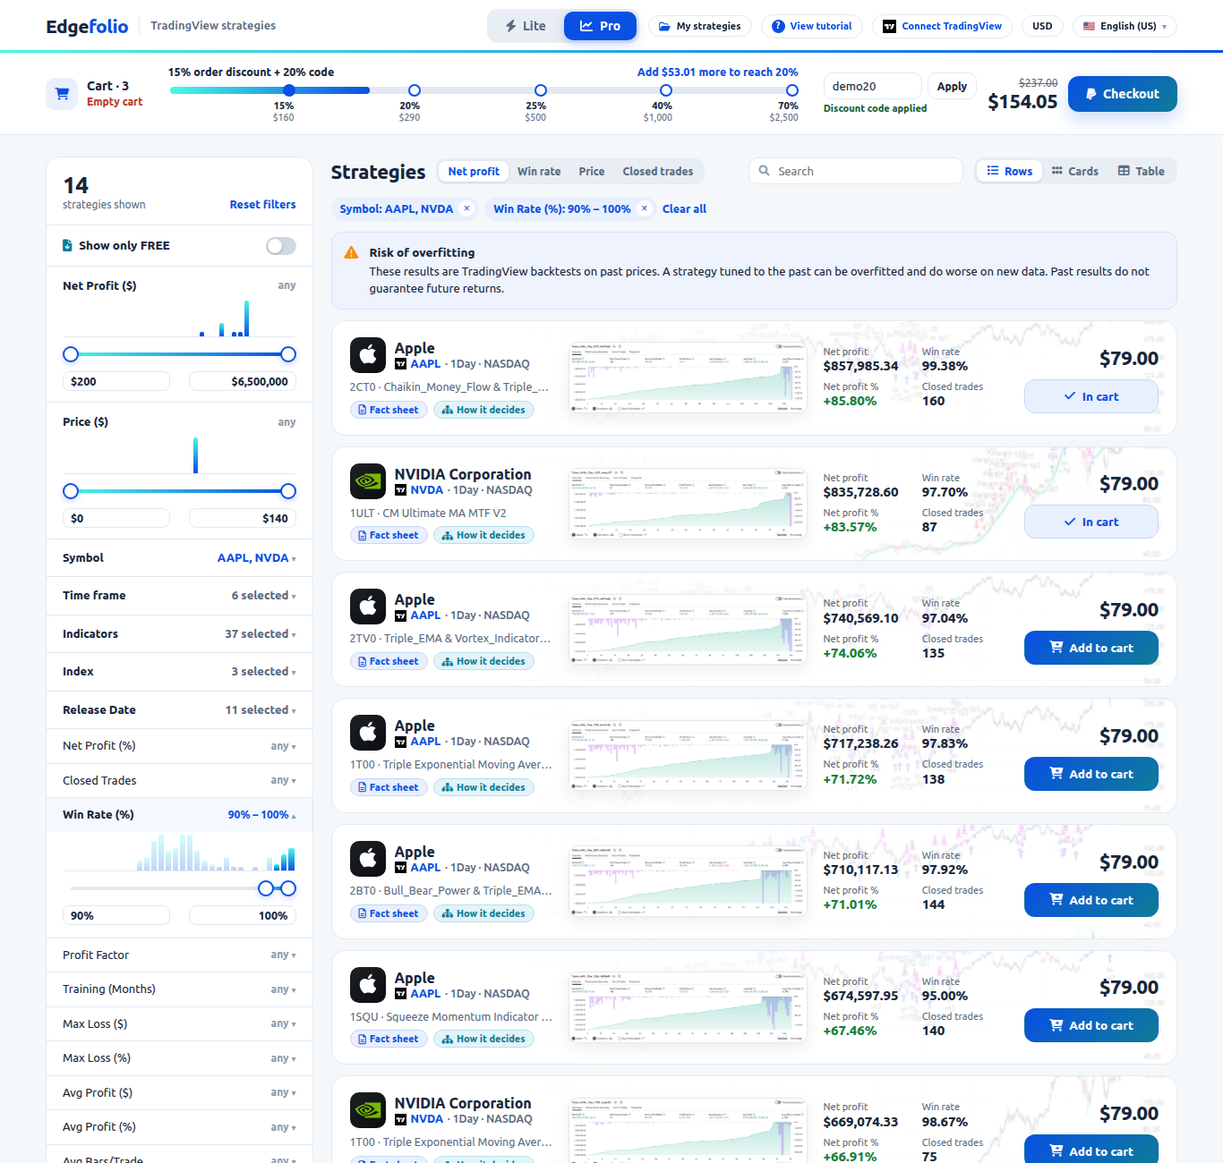
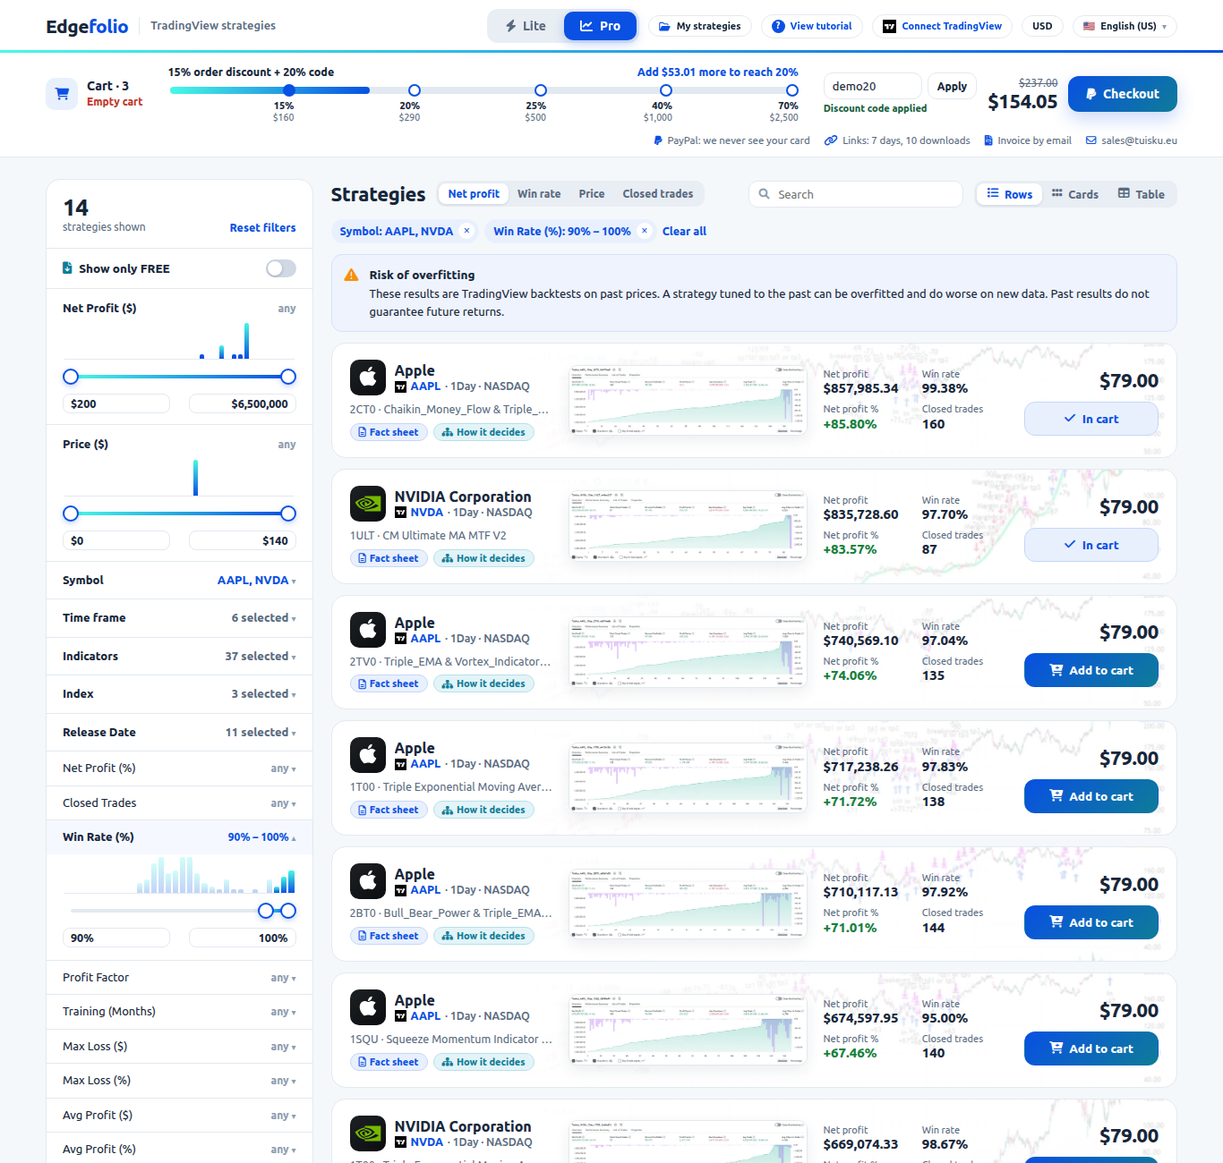
Trust row under Checkout (design export of 6 Oct) and the receipt email
- Lite floating cart and Pro cart strip show the design's trust row: PayPal,
  link lifetime and downloads (from DOWNLOAD_DAYS / MAX_DOWNLOADS), invoice
  by email and CONTACT_EMAIL (LTR in Arabic).
- "Invoice by email" is now true: the first capture of an order emails its
  receipt, line by line, in the page's language (orders.lang, migrated).
- docs/design and IMPLEMENTATION-v7.md updated to the new handoff; README
  and its Lite/Pro screenshots refreshed.

Claude-Session: https://claude.ai/code/session_012EAXLkwBLpxS2P3pKzZpSr

diff --git a/docs/design/Storefront v7.dc.html b/docs/design/Storefront v7.dc.html
@@ -142,6 +142,12 @@ a:hover{text-decoration:underline}
           <sc-if value="{{ codeOpen }}" hint-placeholder-val="{{ false }}"><span style="display:flex;gap:6px;align-items:center"><input value="{{ code }}" onChange="{{ onCode }}" placeholder="{{ tx.codePh }}" style="width:100px;font-family:inherit;font-size:13px;color:#16263a;border:1px solid #e2e9f0;border-radius:10px;padding:6px 9px"><button onClick="{{ applyCode }}" style="font-family:inherit;background:#fff;border:1px solid #e2e9f0;color:#16263a;font-weight:600;border-radius:10px;padding:6px 10px;font-size:12px;cursor:pointer">{{ tx.apply }}</button></span></sc-if>
           <span style="margin-inline-start:auto;text-align:end;line-height:1.15"><span style="display:block;font-size:11.5px;color:#5a6b80;text-decoration:line-through">{{ subtotal }}</span><span style="font-size:20px;font-weight:700;letter-spacing:-.3px">{{ total }}</span><sc-if value="{{ isLocal }}" hint-placeholder-val="{{ false }}"><span style="display:block;font-size:10.5px;color:#5a6b80">{{ payNote }}</span></sc-if></span>
           <button onClick="{{ checkout }}" style="font-family:inherit;background:#0950e3;border:none;color:#fff;font-weight:700;border-radius:12px;padding:12px 20px;font-size:14px;cursor:pointer;box-shadow:0 8px 20px rgba(9,80,227,.22);display:inline-flex;gap:8px;align-items:center"><i class="fa-brands fa-paypal"></i>{{ tx.checkout }}</button>
+          <div style="flex:1 1 100%;display:flex;flex-wrap:wrap;gap:6px 16px;padding-top:8px;border-top:1px solid #eef2f6;font-size:11.5px;color:#5a6b80">
+            <span style="display:inline-flex;gap:6px;align-items:center"><i class="fa-brands fa-paypal" style="color:#0950e3"></i>{{ tx.trustPaypal }}</span>
+            <span style="display:inline-flex;gap:6px;align-items:center"><i class="fa-solid fa-link" style="color:#0950e3"></i>{{ tx.trustLinks }}</span>
+            <span style="display:inline-flex;gap:6px;align-items:center"><i class="fa-solid fa-file-invoice" style="color:#0950e3"></i>{{ tx.trustInvoice }}</span>
+            <a href="mailto:sales@tuisku.eu" dir="ltr" style="display:inline-flex;gap:6px;align-items:center;color:#5a6b80;text-decoration:none"><i class="fa-regular fa-envelope" style="color:#0950e3"></i>sales@tuisku.eu</a>
+          </div>
         </div>
       </div>
     </sc-if>
@@ -164,6 +170,12 @@ a:hover{text-decoration:underline}
           <div style="display:flex;flex-direction:column;gap:2px"><div style="display:flex;gap:6px"><input value="{{ code }}" onChange="{{ onCode }}" placeholder="{{ tx.codePh }}" style="width:110px;font-family:inherit;font-size:13px;color:#16263a;border:1px solid #e2e9f0;border-radius:10px;padding:7px 9px"><button onClick="{{ applyCode }}" style="font-family:inherit;background:#fff;border:1px solid #e2e9f0;color:#16263a;font-weight:600;border-radius:10px;padding:7px 10px;font-size:12px;cursor:pointer">{{ tx.apply }}</button></div><span style="font-size:11px;font-weight:600;color:{{ codeMsgColor }}">{{ codeMsg }}</span></div>
           <div style="text-align:end;line-height:1.15"><div style="font-size:12px;color:#5a6b80;text-decoration:line-through">{{ subtotal }}</div><div style="font-size:22px;font-weight:700;letter-spacing:-.3px">{{ total }}</div></div>
           <button onClick="{{ checkout }}" style="font-family:inherit;background:linear-gradient(135deg,#0950e3,#0e7c98);border:none;color:#fff;font-weight:700;border-radius:12px;padding:12px 20px;font-size:14px;cursor:pointer;box-shadow:0 8px 20px rgba(9,80,227,.22);display:inline-flex;gap:8px;align-items:center"><i class="fa-brands fa-paypal"></i>{{ tx.checkout }}</button>
+        </div>
+        <div style="flex:1 1 100%;display:flex;flex-wrap:wrap;justify-content:flex-end;gap:6px 16px;font-size:11.5px;color:#5a6b80;margin-top:-4px">
+          <span style="display:inline-flex;gap:6px;align-items:center"><i class="fa-brands fa-paypal" style="color:#0950e3"></i>{{ tx.trustPaypal }}</span>
+          <span style="display:inline-flex;gap:6px;align-items:center"><i class="fa-solid fa-link" style="color:#0950e3"></i>{{ tx.trustLinks }}</span>
+          <span style="display:inline-flex;gap:6px;align-items:center"><i class="fa-solid fa-file-invoice" style="color:#0950e3"></i>{{ tx.trustInvoice }}</span>
+          <a href="mailto:sales@tuisku.eu" dir="ltr" style="display:inline-flex;gap:6px;align-items:center;color:#5a6b80;text-decoration:none"><i class="fa-regular fa-envelope" style="color:#0950e3"></i>sales@tuisku.eu</a>
         </div>
       </div>
     </div>

diff --git a/storefront/js/views/lite.js b/storefront/js/views/lite.js
@@ -83,6 +83,12 @@ export default function Lite(v) {
           ${v.codeOpen ? html`<span style="display:flex;gap:6px;align-items:center"><input value=${v.code ?? ''} onInput=${v.onCode} placeholder=${v.tx?.codePh} style="width:100px;font-family:inherit;font-size:13px;color:#16263a;border:1px solid #e2e9f0;border-radius:10px;padding:6px 9px" /><button onClick=${v.applyCode} style="font-family:inherit;background:#fff;border:1px solid #e2e9f0;color:#16263a;font-weight:600;border-radius:10px;padding:6px 10px;font-size:12px;cursor:pointer">${v.tx?.apply}</button></span>` : null}
           <span style="margin-inline-start:auto;text-align:end;line-height:1.15">${v.hasDiscount ? html`<span style="display:block;font-size:11.5px;color:#5a6b80;text-decoration:line-through">${v.subtotal}</span>` : null}<span style="font-size:20px;font-weight:700;letter-spacing:-.3px">${v.total}</span>${v.isLocal ? html`<span style="display:block;font-size:10.5px;color:#5a6b80">${v.payNote}</span>` : null}</span>
           <button onClick=${v.checkout} disabled=${v.paying} aria-busy=${v.paying} style="font-family:inherit;background:${s(v.payBgLite)};border:none;color:#fff;font-weight:700;border-radius:12px;padding:12px 20px;font-size:14px;cursor:${s(v.payCursor)};box-shadow:${s(v.payShadow)};display:inline-flex;gap:8px;align-items:center"><i class=${v.payIcon}></i>${T(v.tx?.checkout)}</button>
+          <div style="flex:1 1 100%;display:flex;flex-wrap:wrap;gap:6px 16px;padding-top:8px;border-top:1px solid #eef2f6;font-size:11.5px;color:#5a6b80">
+            <span style="display:inline-flex;gap:6px;align-items:center"><i class="fa-brands fa-paypal" style="color:#0950e3"></i>${T(v.tx?.trustPaypal)}</span>
+            <span style="display:inline-flex;gap:6px;align-items:center"><i class="fa-solid fa-link" style="color:#0950e3"></i>${T(v.tx?.trustLinks)}</span>
+            <span style="display:inline-flex;gap:6px;align-items:center"><i class="fa-solid fa-file-invoice" style="color:#0950e3"></i>${T(v.tx?.trustInvoice)}</span>
+            ${v.contactOn ? html`<a href=${v.contactUrl} dir="ltr" style="display:inline-flex;gap:6px;align-items:center;color:#5a6b80;text-decoration:none"><i class="fa-regular fa-envelope" style="color:#0950e3"></i>${v.contactEmail}</a>` : null}
+            </div>
           </div>
         </div>
       ` : null}

diff --git a/storefront/js/views/pro.js b/storefront/js/views/pro.js
@@ -21,6 +21,12 @@ export default function Pro(v) {
           <div style="text-align:end;line-height:1.15">${v.hasDiscount ? html`<div style="font-size:12px;color:#5a6b80;text-decoration:line-through">${v.subtotal}</div>` : null}<div style="font-size:22px;font-weight:700;letter-spacing:-.3px">${v.total}</div></div>
           <button onClick=${v.checkout} disabled=${v.paying} aria-busy=${v.paying} style="font-family:inherit;background:${s(v.payBgPro)};border:none;color:#fff;font-weight:700;border-radius:12px;padding:12px 20px;font-size:14px;cursor:${s(v.payCursor)};box-shadow:${s(v.payShadow)};display:inline-flex;gap:8px;align-items:center"><i class=${v.payIcon}></i>${T(v.tx?.checkout)}</button>
           </div>
+        <div style="flex:1 1 100%;display:flex;flex-wrap:wrap;justify-content:flex-end;gap:6px 16px;font-size:11.5px;color:#5a6b80;margin-top:-4px">
+          <span style="display:inline-flex;gap:6px;align-items:center"><i class="fa-brands fa-paypal" style="color:#0950e3"></i>${T(v.tx?.trustPaypal)}</span>
+          <span style="display:inline-flex;gap:6px;align-items:center"><i class="fa-solid fa-link" style="color:#0950e3"></i>${T(v.tx?.trustLinks)}</span>
+          <span style="display:inline-flex;gap:6px;align-items:center"><i class="fa-solid fa-file-invoice" style="color:#0950e3"></i>${T(v.tx?.trustInvoice)}</span>
+          ${v.contactOn ? html`<a href=${v.contactUrl} dir="ltr" style="display:inline-flex;gap:6px;align-items:center;color:#5a6b80;text-decoration:none"><i class="fa-regular fa-envelope" style="color:#0950e3"></i>${v.contactEmail}</a>` : null}
+          </div>
         </div>
       </div>
     <main style="flex:1 0 auto;width:100%;max-width:1320px;margin:0 auto;padding:24px 28px 0;display:flex;flex-wrap:wrap;gap:20px;align-items:flex-start">

diff --git a/storefront/js/lib/vals_pages.js b/storefront/js/lib/vals_pages.js
@@ -16,7 +16,7 @@ export function pageVals(c) {
   const errBottom = (s.vw < 640 ? 76 : 16) + (s.page === 'shop' && s.mode !== 'pro' && (s.cart.length + s.bundles.length > 0) ? 84 : 0);
   return {
     ...detailVals(c), ...compareVals(c), ...mineVals(c), ...thanksVals(c), ...installVals(c), ...freeVals(c),
-    ...legal, legalOn: !!base, contactOn: !!c.contact, contactUrl: c.contact ? 'mailto:' + c.contact : '',
+    ...legal, legalOn: !!base, contactOn: !!c.contact, contactUrl: c.contact ? 'mailto:' + c.contact : '', contactEmail: c.contact,
     errOpen: !!s.error, errTitle: tx.errServer, closeErr: () => app.setState({ error: '' }),
     errText: t(s.error) + ((s.error === 'errPayment' || s.error === 'errLater') && c.contact ? ' ' + t('contactProblems', { e: c.contact }) : ''),
     errBottom: errBottom + 'px',

diff --git a/storefront/js/lib/vals.js b/storefront/js/lib/vals.js
@@ -25,6 +25,8 @@ export function renderVals(app) {
   TX_KEYS.forEach(k => { tx[k] = t(k); });
   const contact = (s.cfg && s.cfg.contact_email) || '';
   tx.contactProblems = t('contactProblems', { e: contact });
+  // the trust row says what the server's settings say, not the design's example figures
+  tx.trustLinks = t('trustLinks', { n: f.int((s.cfg && s.cfg.download_days) || 7), m: f.int((s.cfg && s.cfg.max_downloads) || 10) });
 
   const c = { app, s, t, tx, f, lang, rtl, contact };
   c.mk = r => rowVals(c, r);

diff --git a/storefront/js/app.js b/storefront/js/app.js
@@ -333,7 +333,7 @@ export class App extends Component {
     if (this.paying || (!body.items.length && !body.bundles.length && !body.pack.length)) return;
     this.paying = true;
     this.setState({ paying: true });
-    post('/api/orders', body).then(o => window.location.assign(o.approve_url))
+    post('/api/orders', { ...body, lang: this.state.lang }).then(o => window.location.assign(o.approve_url))
       .catch(e => { this.paying = false; this.setState({ paying: false }); this.fail(e); });
   }
 

diff --git a/api/capture.py b/api/capture.py
@@ -1,6 +1,8 @@
 """POST /api/orders/{id}/capture: take the money, check it matches the order, issue download links.
 
 Capturing only takes money the buyer approved at PayPal, so anyone holding the order id may trigger it.
+The first capture of an order also emails its receipt (the "Invoice by email" of the checkout's trust row)
+to the order's email: the signed-in buyer's, or the PayPal payer's.
 The links in the receipt, though, go only to the browser that placed the order (its ef_buyer cookie) or
 to a session whose email owns the order; anyone else gets the receipt without them (links_hidden).
 """
@@ -11,6 +13,7 @@ from urllib.parse import urlencode
 from fastapi import APIRouter, HTTPException, Request
 
 from api import auth
+from api.web import base_url
 from api.orders import BUYER
 from api.paypal import PayPalError
 from api.store import digest
@@ -22,6 +25,36 @@ def masked(email: str) -> str:
     """a•••@example.com: enough for the buyer to recognise the address, little for anyone else."""
     local, at, domain = (email or "").strip().partition("@")
     return f"{local[0]}•••@{domain}" if at and local and domain else ""
+
+
+def money(value, currency: str) -> str:
+    return f"{Decimal(value):,.2f} {currency}"
+
+
+def email_receipt(request: Request, order: dict):
+    """The order line by line, the total and where the downloads are. A failed email is in the outbox
+    and does not undo the payment: the thank-you page and My strategies still have everything."""
+    state = request.app.state
+    if not order.get("email"):
+        return
+    texts, lang, cur, catalogue = state.texts, order.get("lang") or "en", order["currency"], state.catalogue
+    lines = order.get("lines") or {}
+    out = []
+    for item in lines.get("items", []):
+        s = catalogue.resolve(item["id"])
+        name = f"{s.row.get('Name', s.ticker)} ({s.ticker} · {s.key_techs} · {s.interval})" if s else item["id"]
+        out.append(f"{name}: {money(item['price'], cur)}")
+    for b in lines.get("bundles", []):
+        bundle = catalogue.bundles.get(b["key"])
+        name = texts.get(bundle.name_key, lang) if bundle else b["key"]
+        out.append(f"{name} ({len(bundle.items) if bundle else '?'}): {money(b['price'], cur)}")
+    if lines.get("pack"):
+        out.append(f"{texts.get('packTitle', lang)} ({len(lines['pack']['ids'])}): {money(lines['pack']['price'], cur)}")
+    settings = state.settings
+    body = texts.get("mailReceiptBody", lang, id=order["paypal_id"], lines="\n".join("- " + line for line in out),
+                     total=money(order["total"], cur), mine=f"{base_url(request)}/mine", n=settings.download_days,
+                     m=settings.max_downloads, contact=settings.contact_email)
+    state.mailer.send(order["email"], texts.get("mailReceiptSubject", lang, id=order["paypal_id"]), body)
 
 
 def may_see_links(request: Request, order: dict) -> bool:
@@ -71,4 +104,6 @@ def capture(paypal_id: str, request: Request):
     if not order.get("email") and "@" in (cap.payer or ""):
         # bought without signing in: the PayPal address is how My strategies finds the order later
         state.store.set_email(paypal_id, cap.payer)
-    return receipt(request, state.store.order(paypal_id))
+    order = state.store.order(paypal_id)
+    email_receipt(request, order)
+    return receipt(request, order)

diff --git a/api/store.py b/api/store.py
@@ -21,7 +21,8 @@ CREATE TABLE IF NOT EXISTS orders (
     created   REAL NOT NULL,
     email     TEXT NOT NULL DEFAULT '',    -- the signed-in buyer, or the payer's email once paid
     lines     TEXT NOT NULL DEFAULT '[]',  -- JSON: what was charged, line by line
-    buyer_hash TEXT NOT NULL DEFAULT ''    -- SHA-256 of the ef_buyer cookie of the browser that made it
+    buyer_hash TEXT NOT NULL DEFAULT '',   -- SHA-256 of the ef_buyer cookie of the browser that made it
+    lang      TEXT NOT NULL DEFAULT 'en'   -- the language of its receipt email
 );
 CREATE TABLE IF NOT EXISTS downloads (
     token     TEXT PRIMARY KEY,
@@ -101,6 +102,7 @@ MIGRATIONS = (
     ("subscribers", "token_hash", "TEXT NOT NULL DEFAULT ''"),
     ("subscribers", "confirmed_at", "REAL"),
     ("favourites", "lang", "TEXT NOT NULL DEFAULT 'en'"),   # the language of its alert emails
+    ("orders", "lang", "TEXT NOT NULL DEFAULT 'en'"),       # the language of its receipt email
 )
 
 DAY = 86400
@@ -139,12 +141,12 @@ class Store:
     # Orders and paid links: the interface the order and capture code use.
 
     def add_order(self, paypal_id: str, keys: list, code: str, total: Decimal, currency: str,
-                  email: str = "", lines: list = None, buyer: str = ""):
+                  email: str = "", lines: list = None, buyer: str = "", lang: str = "en"):
         """`buyer`: the ef_buyer cookie of the browser placing the order; only its hash is kept."""
         self._write("INSERT INTO orders (paypal_id, items, code, total, currency, status, payer, created, "
-                    "email, lines, buyer_hash) VALUES (?,?,?,?,?,'CREATED','',?,?,?,?)",
+                    "email, lines, buyer_hash, lang) VALUES (?,?,?,?,?,'CREATED','',?,?,?,?,?)",
                     (paypal_id, json.dumps(keys), code, str(total), currency, time.time(), norm(email),
-                     json.dumps(lines or []), digest(buyer) if buyer else ""))
+                     json.dumps(lines or []), digest(buyer) if buyer else "", lang))
 
     def order(self, paypal_id: str):
         row = self.db.execute("SELECT * FROM orders WHERE paypal_id=?", (paypal_id,)).fetchone()

diff --git a/tests/test_receipt.py b/tests/test_receipt.py
@@ -1,0 +1,40 @@
+"""The receipt email ("Invoice by email" in the checkout's trust row): sent once, when the payment goes through."""
+from tests.conftest import ROWS, strategy_id
+
+AAPL, TSLA = strategy_id(ROWS[0]), strategy_id(ROWS[3])
+
+
+def receipts(client):
+    return [m for m in client.app.state.store.outbox() if "Edgefolio" in m["subject"] and "{" not in m["subject"]
+            and ("order" in m["subject"].lower() or "pedido" in m["subject"].lower())]
+
+
+def pay(client, body):
+    order = client.post("/api/orders", json=body)
+    assert order.status_code == 200, order.text
+    return order.json()["id"], client.post(f"/api/orders/{order.json()['id']}/capture")
+
+
+def test_the_payer_gets_a_receipt_in_the_pages_language(client):
+    order_id, r = pay(client, {"items": [AAPL, TSLA], "bundles": [], "pack": [], "code": "", "lang": "es"})
+    assert r.status_code == 200
+    (mail,) = receipts(client)
+    assert mail["to_addr"] == "buyer@example.com"           # the fake PayPal's payer
+    assert mail["subject"] == f"Tu pedido de Edgefolio {order_id}"
+    body = mail["body"]
+    assert "- Apple (AAPL · 1ADX · 1Day): 79.00 USD" in body and "- Tesla (TSLA · 1C00 · 1Day): 50.00 USD" in body
+    assert "Total pagado con PayPal: 129.00 USD" in body and "/mine" in body and "7 días" in body
+
+
+def test_a_bundle_is_one_line_and_a_retry_sends_nothing_more(client):
+    order_id, _ = pay(client, {"items": [], "bundles": ["duo"], "pack": [], "code": ""})
+    assert client.post(f"/api/orders/{order_id}/capture").status_code == 200   # a retry
+    (mail,) = receipts(client)
+    assert mail["subject"] == f"Your Edgefolio order {order_id}"
+    assert "(2): 150.00 USD" in mail["body"] and "Total paid with PayPal: 150.00 USD" in mail["body"]  # under $160: no tier
+
+
+def test_a_failed_email_does_not_undo_the_payment(client):
+    client.app.state.mailer.send = lambda *a, **k: False
+    _, r = pay(client, {"items": [AAPL], "bundles": [], "pack": [], "code": ""})
+    assert r.status_code == 200 and r.json()["status"] == "PAID"

diff --git a/api/orders.py b/api/orders.py
@@ -11,7 +11,7 @@ from pydantic import BaseModel, Field
 
 from api import auth, pricing
 from api.paypal import PayPalError
-from api.web import base_url, set_cookie
+from api.web import base_url, language, set_cookie
 
 router = APIRouter()
 
@@ -24,6 +24,7 @@ class Cart(BaseModel):
     bundles: list[str] = Field([], max_length=50, description="bundle keys from /api/bundles")
     pack: list[str] = Field([], max_length=50, description="the PACK_SIZE strategies of 'Build your pack'")
     code: str = Field("", max_length=64)
+    lang: str = Field("en", max_length=16, description="the page's language: the receipt email's")
 
 
 def strategies(catalogue, ids: list) -> list:
@@ -79,6 +80,6 @@ def create_order(cart: Cart, request: Request, response: Response):
         buyer = secrets.token_urlsafe(32)
     state.store.add_order(created.id, keys, q.code if q.code_status == "applied" else "", q.total,
                           state.settings.currency, email=auth.current_email(request) or "", lines=q.lines(),
-                          buyer=buyer)
+                          buyer=buyer, lang=language(cart.lang))
     set_cookie(response, request, BUYER, buyer, BUYER_DAYS)
     return {"id": created.id, "approve_url": created.approve_url, **q.as_dict()}

diff --git a/api/texts.py b/api/texts.py
@@ -6,7 +6,8 @@ import re
 from pathlib import Path
 
 MAIL_KEYS = ("mailSignInSubject", "mailSignInBody", "mailFreeSubject", "mailFreeBody", "mailNewsConfirm",
-             "mailAlertSubject", "mailAlertBody", "mailAlertNew", "mailAlertPrice", "mailAlertBundle")
+             "mailAlertSubject", "mailAlertBody", "mailAlertNew", "mailAlertPrice", "mailAlertBundle",
+             "mailReceiptSubject", "mailReceiptBody")
 PLACEHOLDER = re.compile(r"\{(\w+)\}")
 
 

diff --git a/README.md b/README.md
@@ -120,9 +120,10 @@ pip install playwright && python tools/screenshots.py  # with the server above r
 |---|---|---|
 | **Lite** (default) | `/` | Ticker strip, search, tabs (Hot, Win rate, Stocks, Crypto, New, Free), the overfitting warning, three bundles and *Build your pack* (5 strategies for one price), cards with grade A–D, favourite and compare, a floating cart with the discount code. |
 | **Pro** | `/` + the Lite \| Pro switch | The discount ladder, the filter panel (16 sliders with histograms and typed min / max, 5 multi-selects, Only FREE), chips, Rows / Cards / Table, 25 per page. |
+| **Under Checkout** | Lite and Pro | The trust row: PayPal (the shop never sees the card), how long the links last and how many downloads (from `DOWNLOAD_DAYS` and `MAX_DOWNLOADS`), the receipt by email, and `CONTACT_EMAIL`. |
 | **Strategy page** | `/s/<id>` | Both TradingView charts, the 14 results, backtest against results since release, versions, the indicator, the first lines of the script, the formats you get. |
 | **How it decides** | `/s/<id>/tree` | The first decision tree of the strategy, from its public preview: values as sliders, the path to the result, every rule in plain words. Owners see the complete tree. |
-| **Thank-you page** | `/thanks` | The order, `.pine` and `.zip` per strategy, *Download all*, and the 5-step install tutorial. |
+| **Thank-you page** | `/thanks` | The order, `.pine` and `.zip` per strategy, *Download all*, and the 5-step install tutorial. The receipt goes to the PayPal payer's email, in the page's language: every line with what it cost, the total, and the links to My strategies. |
 | **My strategies** | `/mine` | Everything bought or downloaded with how long its link lasts, *Get a new link*, favourites with alert opt-ins. Sign-in by emailed link, no password. |
 | **Free download** | a dialog | Free strategies are sent by email; news is a separate box, unticked, confirmed by email. |
 
@@ -144,6 +145,7 @@ browser                                  server (api/)                         P
   │ POST /api/orders/{id}/capture ────────▶ capture ─────────────────────────▶ money moves
   │                                          amount = order total? ◀─────────┘
   │ ◀──────── receipt + one link per file (only to the browser that ordered)
+  │                                          receipt by email to the payer
   │ GET /api/download/{token}[?format=zip] ▶ file from private storage
 ```
 
@@ -209,7 +211,7 @@ new columns in place, nothing to run by hand. Back it up with the rest of `priva
 
 | Table | What it keeps |
 |---|---|
-| `orders` | one row per PayPal order: the strategy keys, the code, the total, the status (`CREATED`, `PAID`, `FAILED`), the payer, the buyer's email, what was charged line by line, and a hash of the buying browser's cookie |
+| `orders` | one row per PayPal order: the strategy keys, the code, the total, the status (`CREATED`, `PAID`, `FAILED`), the payer, the buyer's email, the page's language (for the receipt), what was charged line by line, and a hash of the buying browser's cookie |
 | `downloads` | one link per strategy of a paid order: token, expiry, download count, version |
 | `free_claims` | free strategies sent by email: the address, the link, when the visitor asked for it |
 | `subscribers` | news opt-ins: only addresses that ticked the box and confirmed it from the email |
@@ -317,8 +319,9 @@ ones).
 - Filtering, sorting, paging and the histograms run on the server; the browser no longer downloads
   the whole catalogue.
 - New on the server: accounts by emailed link, free downloads for an email with recorded consent,
-  renewable links, favourites, the zip with the rules in Markdown, Python and JavaScript, WebP
-  thumbnails, exchange rates, and PayPal's redirect flow (the Checkout button of the design).
+  renewable links, favourites, the receipt by email on payment, the zip with the rules in Markdown,
+  Python and JavaScript, WebP thumbnails, exchange rates, and PayPal's redirect flow (the Checkout
+  button of the design).
 - The 79 free strategies' public previews were their whole script; they are now cut like the paid ones.
 
 The previous redesign (server-side prices and discounts, links per paid order, scripts out of the
